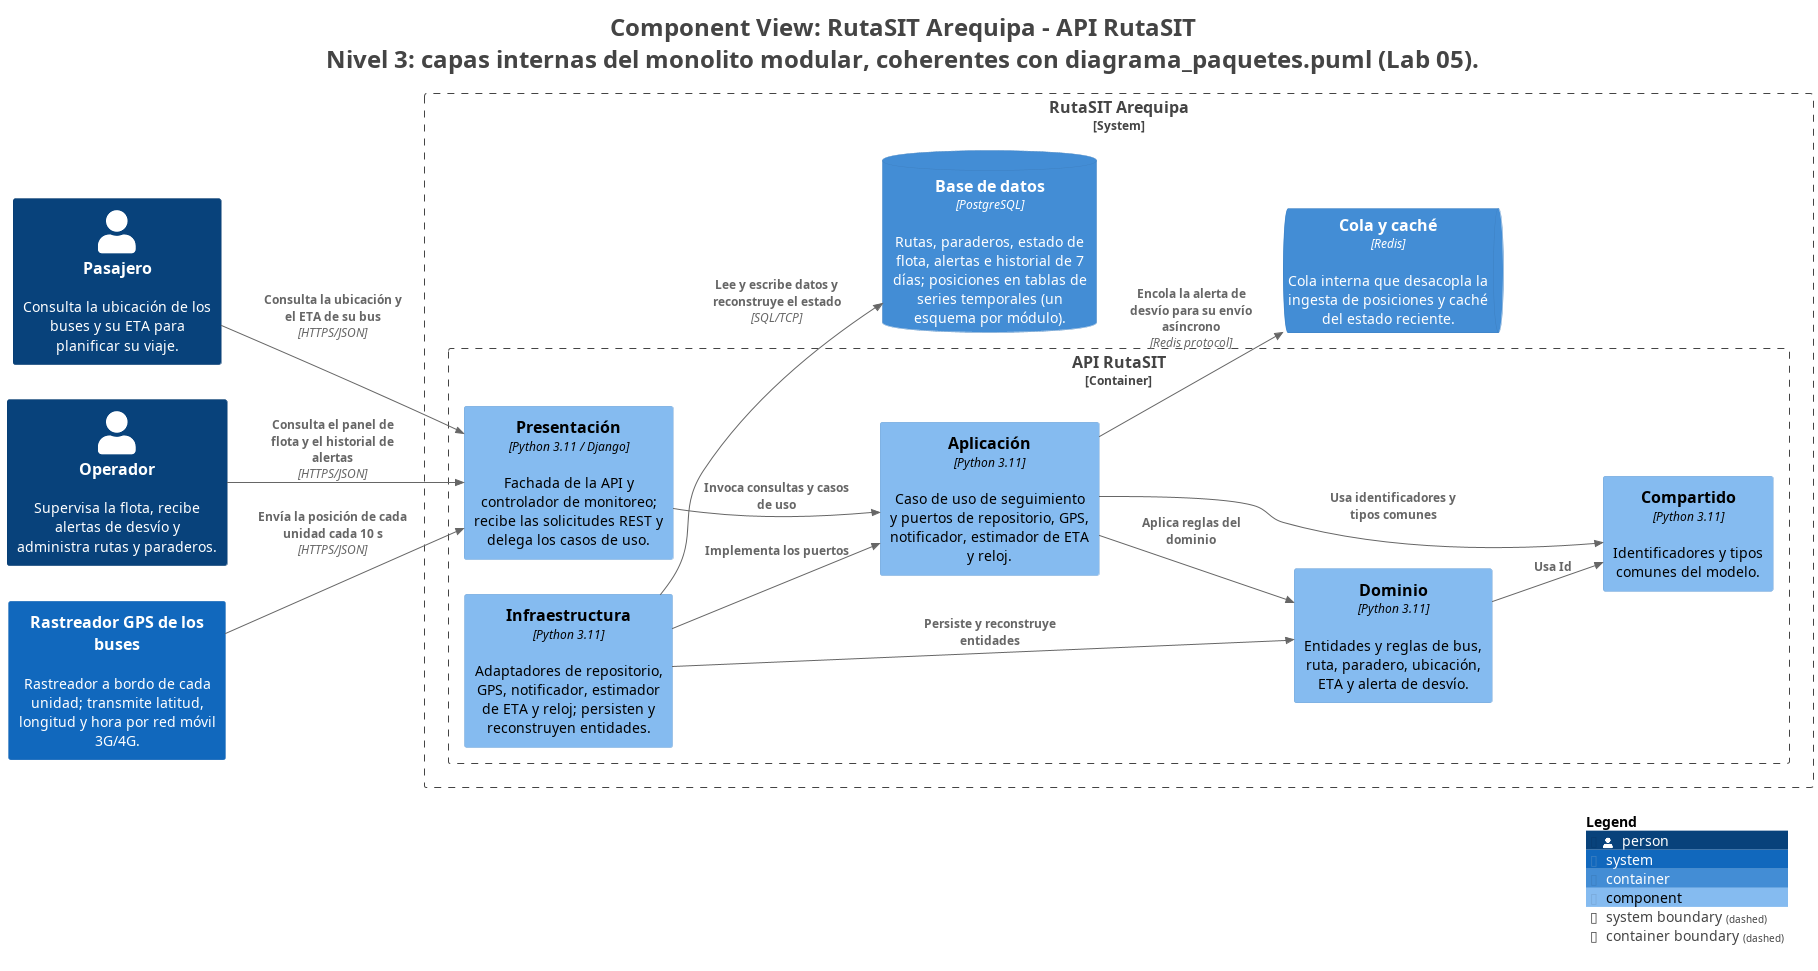
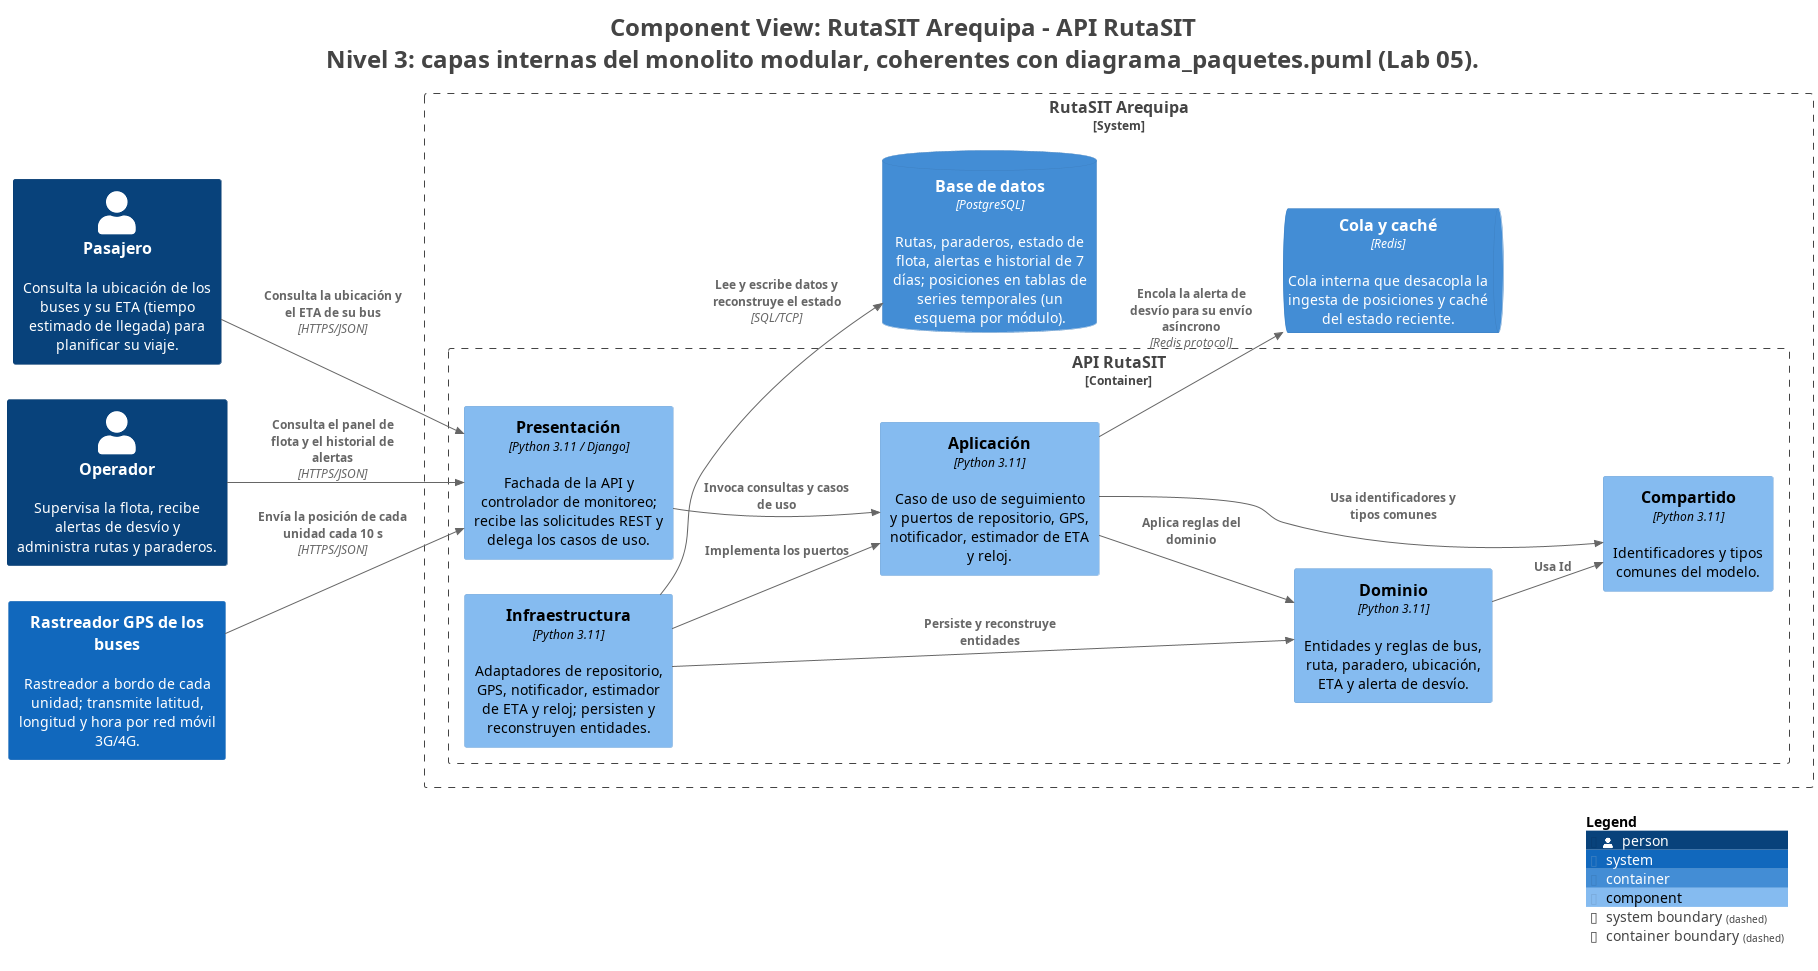
E7: revisión y bitácora

Changed region(s): [[0.0, 0.1854, 0.1232, 0.3708], [0.154, 0.2781, 0.2156, 0.3708]]

diff --git a/lab06/docs/architecture/c4/revision-c4.md b/lab06/docs/architecture/c4/revision-c4.md
@@ -1,0 +1,80 @@
+# Revisión C4 — RutaSIT Arequipa (Lab 06, E7)
+
+Proceso: el equipo aplicó la lista de revisión de la Tabla 3 (generales, elementos y relaciones)
+a las cinco vistas; después, un auditor IA (Prompt IA 2 de la guía) revisó los `.puml` exportados
+y las imágenes, y el equipo verificó cada hallazgo contra `workspace.dsl` y las fuentes de los
+Laboratorios 04 y 05 antes de aceptarlo o descartarlo. Evidencia citada del modelo
+(`workspace.dsl`), de los exports (`export/*.puml`) y de las imágenes (`img/`).
+
+## 1. Lista de revisión aplicada a las cinco vistas
+
+### Vista de contexto (nivel 1)
+
+| Grupo | Pregunta | ¿Cumple? | Evidencia |
+|---|---|---|---|
+| General | ¿Título, tipo de diagrama y alcance? | Sí | `title ... "System Context View: RutaSIT Arequipa"` y subtítulo «Nivel 1: RutaSIT, sus usuarios y los sistemas externos.» |
+| General | ¿Leyenda? | Sí | `SHOW_LEGEND(true)` (persona y sistema). Los externos llevan la etiqueta «Externo» en el modelo (ver hallazgo 1). |
+| Elementos | ¿Nombre, tipo y descripción de cada elemento? | Sí | `Person(Pasajero ...)`, `Person(Operador ...)`, `System(RutaSITArequipa ...)`, `System(RastreadorGPSdelosbuses ...)`, `System(MapasabiertosOSM ...)`. |
+| Elementos | ¿Acrónimos entendibles? | Sí (corregido en esta revisión) | «ETA (tiempo estimado de llegada)» y «SIT (Sistema Integrado de Transporte)»: expansiones tomadas de `docs/architecture/drivers.md`. |
+| Relaciones | ¿Etiqueta con intención, dirección y protocolo cuando aplica? | Sí | `Rel(..., "Transmite la posición de cada unidad cada 10 s", $techn="HTTPS/JSON")` y `Rel(..., "Solicita tiles y geometría del mapa", $techn="HTTPS")`; con las personas no aplica protocolo en el nivel 1. |
+
+### Vista de contenedores (nivel 2)
+
+| Grupo | Pregunta | ¿Cumple? | Evidencia |
+|---|---|---|---|
+| General | ¿Título, tipo de diagrama y alcance? | Sí | `"Container View: RutaSIT Arequipa"` y subtítulo «Nivel 2: contenedores del sistema y su tecnología.» |
+| General | ¿Leyenda? | Sí | `SHOW_LEGEND(true)` con límite discontinuo para el sistema. |
+| Elementos | ¿Cada contenedor con nombre, tipo y tecnología? | Sí | `Container(... "API RutaSIT" $techn="Python 3.11 / Django")`, `Container(... "Worker ETA/Alertas" $techn="Celery")`, `ContainerQueue(... "Cola y caché" $techn="Redis")`, `ContainerDb(... "Base de datos" $techn="PostgreSQL")`; ninguno se llama «Docker», «servidor» ni «nube». |
+| Relaciones | ¿Etiqueta y protocolo? | Sí | `Rel(... "Encola posiciones y alertas" $techn="Redis protocol")`, `Rel(... "Lee y escribe rutas, paraderos, estado y alertas" $techn="SQL/TCP")`, `Rel(... "Consulta la ubicación y el ETA de su bus" $techn="HTTPS/JSON")`. |
+
+### Vista de componentes (nivel 3, contenedor API RutaSIT)
+
+| Grupo | Pregunta | ¿Cumple? | Evidencia |
+|---|---|---|---|
+| General | ¿Título, tipo de diagrama y alcance? | Sí | `"Component View: RutaSIT Arequipa - API RutaSIT"` y subtítulo «Nivel 3: capas internas del monolito modular, coherentes con diagrama_paquetes.puml (Lab 05).» |
+| Elementos | ¿Componentes coherentes con el Lab 05, con tecnología? | Sí | Presentación, Aplicación, Dominio, Infraestructura y Compartido (`$techn="Python 3.11"`; Presentación: «Python 3.11 / Django»), las cinco capas de `lab05/diagrama_paquetes.puml`, sin ciclos. |
+| Relaciones | ¿Intención clara y tecnología solo donde aplica? | Sí | Internas en proceso sin tecnología (`"Invoca consultas y casos de uso"`); hacia contenedores/actores con tecnología (`"Redis protocol"`, `"SQL/TCP"`, `"HTTPS/JSON"`). |
+
+### Vista dinámica (HU-06, extremo a extremo)
+
+| Grupo | Pregunta | ¿Cumple? | Evidencia |
+|---|---|---|---|
+| General | ¿Título, tipo de diagrama y alcance? | Sí (corregido en esta revisión) | Subtítulo «Dinámico de extremo a extremo (HU-06): ingesta GPS, consulta del pasajero, alerta de desvío y panel del operador.» |
+| Elementos | ¿Participantes tipados y definidos una sola vez? | Sí | Pasos numerados 1–9; el PNG dibuja cada elemento una sola vez (la repetición de declaraciones en el `.puml` es estructura del exportador; ver hallazgo 4). |
+| Relaciones | ¿Orden, etiqueta y tecnología? | Sí | Pasos sobre relaciones existentes en el modelo; `"1: ..." $techn="HTTPS/JSON"`, `"4: ..." y "8: ..." $techn="SQL/TCP"`, `"6: ..." y "7: ..." $techn="Redis protocol"`; los pasos internos 3 y 5 no llevan tecnología. |
+| Relaciones | ¿El flujo cubre el escenario crítico? | Sí | Coherencia paso a paso con la secuencia del Lab 05 documentada en `comparacion.md` (§1); ver hallazgo 5 (falso positivo). |
+
+### Vista de despliegue (Producción)
+
+| Grupo | Pregunta | ¿Cumple? | Evidencia |
+|---|---|---|---|
+| General | ¿Título, tipo de diagrama y alcance? | Sí | `"Deployment View: RutaSIT Arequipa - Producción"` y subtítulo «Despliegue en producción del MVP: VPS único (R-03) y rastreadores GPS de los buses.» |
+| General | ¿Leyenda? | Sí | `SHOW_LEGEND(true)` con nodo, sistema y contenedor. |
+| Elementos | ¿Nodos anidados con tipo y descripción? | Sí | `Deployment_Node(... "Bus del SIT (300 unidades)" ...) > "Rastreador GPS"`; `Deployment_Node(..., "VPS único (R-03)", $type="Ubuntu 24.04 LTS, 2 vCPU, 4 GB RAM")`, coherente con R-03 (bajo costo). |
+| Elementos | ¿Instancias de **todos** los contenedores? | Sí | `containerInstance rutasit.app`, `rutasit.worker`, `rutasit.cache` y `rutasit.db` en el nodo de la VPS (véase también el PNG). |
+| Relaciones | ¿Etiqueta, dirección y protocolo? | Sí | `"Envía la posición de cada unidad cada 10 s" $techn="HTTPS/JSON"`, `"Guarda posiciones, estado del bus y alertas" $techn="SQL/TCP"`, `"Consume posiciones y alertas" $techn="Redis protocol"`. |
+
+## 2. Hallazgos del auditor IA y verificación del equipo
+
+| Vista | Hallazgo del auditor IA | Verificación del equipo |
+|---|---|---|
+| Contexto (y demás) | Los sistemas externos no se distinguen en el export (`$tags=""`; la leyenda no muestra «external»). | **Correcto (limitación aceptada y documentada)**: el modelo sí les asigna la etiqueta «Externo» y el export Mermaid la refleja en gris; el formato `plantuml/c4plantuml` de la CLI no traduce etiquetas ni estilos (se comprobó también con una etiqueta `External`). No se editan los exports a mano (fuente única). |
+| Contexto y Despliegue | Faltan expansiones de acrónimos (ETA, SIT, VPS). | **Correcto, corregido**: ETA y SIT se expanden con las definiciones de `drivers.md`; VPS se explica en la descripción del nodo. R-03 y HU-06 se mantienen como códigos de trazabilidad de los laboratorios anteriores. |
+| Dinámica | El título no cubre los pasos 1 y 9 (ingesta periódica y operador). | **Correcto, corregido**: la descripción declara ahora el alcance de extremo a extremo; no se quitaron pasos porque la alerta asíncrona y el panel del operador son parte deliberada del escenario. |
+| Dinámica | Declaraciones duplicadas en el `.puml` (bloque de líneas 37–42). | **Falso positivo**: es la estructura normal del exportador para elementos dentro y fuera del límite; el PNG dibuja cada elemento una sola vez y el archivo se regenera desde el modelo (no se edita a mano). |
+| Dinámica | Paso 4 sin un paso previo «Aplicación → Infraestructura». | **Falso positivo**: patrón puertos/adaptadores; la secuencia del Lab 05 llama `Service -> Repo: obtener_bus/ruta/paradero` y el repositorio **es** el adaptador de infraestructura: no falta ningún paso. |
+| Todas | ¿Falta un contenedor cliente (web o móvil)? | **Decisión de alcance verificada**: los Laboratorios 04 y 05 no definen una aplicación cliente propia; el navegador es software del usuario y el API «sirve el mapa del pasajero y el panel del operador» (descripción del contenedor). Queda registrado en la bitácora. |
+| Contenedores, Componentes y Despliegue | Tecnologías, protocolos, nodos e instancias. | **Correcto (cumple)**: p. ej. `ContainerQueue(..., $techn="Redis")` con `Redis protocol` en sus relaciones, `SQL/TCP` hacia la base de datos, y el nodo VPS con SO y tamaño (R-03). |
+
+Falsos positivos confirmados por el equipo: los dos marcados arriba (duplicación del `.puml` y
+paso 4 del flujo); ambos se descartaron con la evidencia citada.
+
+## 3. Correcciones aplicadas en esta revisión
+
+- Descripciones del modelo ampliadas: «ETA (tiempo estimado de llegada)», «SIT (Sistema Integrado
+  de Transporte)» y VPS explicado en el nodo de despliegue.
+- Vista dinámica: descripción ajustada al alcance real (extremo a extremo, 9 pasos).
+- `inventario.md`: la fila del despliegue ya no menciona «dispositivos de usuario»; se agregó la
+  nota de alcance (Structurizr descarta los nodos sin instancias y ningún contenedor de RutaSIT
+  se ejecuta en los dispositivos).
+- Re-exportación a C4-PlantUML y Mermaid y regeneración de los seis PNG tras las correcciones.

diff --git a/lab06/docs/architecture/c4/bitacora-ia.md b/lab06/docs/architecture/c4/bitacora-ia.md
@@ -1,0 +1,16 @@
+# Bitácora de uso de IA: Lab 06 (modelo C4)
+
+**Periodo de trabajo consignado:** 17/10/2026.
+**Interacciones registradas:** 8, todas del 17/10/2026.
+**Nota de integridad:** solo se registran interacciones reales de esta sesión. Cada propuesta de la IA fue verificada contra las fuentes (Laboratorios 04 y 05); el modelo se validó con `structurizr validate` y las exportaciones se regeneraron tras cada corrección. La revisión cruzada por issue de GitHub y la aprobación final del grupo quedan pendientes.
+
+| # | Fecha | Herramienta | Prompt enviado (resumen) | Propuesta recibida | Verificación | Decisión tomada |
+|---|---|---|---|---|---|---|
+| 1 | 17/10/2026 | OpenCode (asistente IA) | «Modela el inventario C4 y el borrador de `workspace.dsl` desde el Lab 04/05, sin inventar elementos». | Contenedores con Nginx (proxy HTTPS) y Grafana (monitoreo), porque aparecen en `despliegue.py` y QA-02. | El ADR-001 describe monolito modular + cola Redis + PostgreSQL; ni el proxy ni el monitoreo son contenedores del sistema y QA-02 no exige modelarlos en C4. | Excluirlos de las vistas del MVP (decisión documentada); contenedores finales: API RutaSIT, Worker ETA/Alertas, Cola y caché y Base de datos. |
+| 2 | 17/10/2026 | OpenCode (asistente IA) | «¿Qué componentes modelamos en el nivel 3: los módulos del ADR-001 o los paquetes del Lab 05?». | Módulos funcionales Ingesta, Flota, ETA, Alertas y Rutas (ADR-001). | El criterio de E3 pide 4 o más componentes coherentes con `lab05/diagrama_paquetes.puml` (cinco capas, sin ciclos). | Componentes = Presentación, Aplicación, Dominio, Infraestructura y Compartido; los módulos se mencionan en la descripción del contenedor. |
+| 3 | 17/10/2026 | OpenCode (asistente IA) | «R-03 no fija SO, CPU ni RAM del VPS; ¿qué declaramos en el nodo de despliegue?». | Dejar solo «VPS de bajo costo», sin detalles. | `drivers.md` (R-03) solo exige bajo costo, pero la lista de revisión pide tecnología del nodo. | El equipo fijó Ubuntu 24.04 LTS, 2 vCPU y 4 GB RAM como supuesto documentado. |
+| 4 | 17/10/2026 | OpenCode (asistente IA) + Structurizr CLI (Docker) | «Construye la vista dinámica del flujo HU-06 sobre relaciones existentes, integrando ingesta, desvío y operador». | Vista con alcance del sistema y 9 pasos entre componentes y contenedores. | `structurizr validate` falló: «Components can't be added to a dynamic view when the scope is a software system»; además, con `!identifiers hierarchical` las relaciones exigen rutas completas. | Alcance = contenedor API (patrón de la guía) y relaciones persona/GPS → Presentación; vista validada y exportada. |
+| 5 | 17/10/2026 | OpenCode (asistente IA) + Structurizr CLI (Docker) | «Agrega el entorno "Producción" con nodos anidados e instancias de todos los contenedores». | Nodos de dispositivo para el pasajero y el operador (vacíos), más el VPS con las instancias y el nodo de buses con el rastreador. | Prueba real de export: Structurizr descarta del diagrama los nodos sin instancias; los dispositivos no aparecían en el PNG. | Retirarlos del modelo (ningún contenedor de RutaSIT se ejecuta allí); corregir `inventario.md` y registrarlo. |
+| 6 | 17/10/2026 | OpenCode (asistente IA) + PlantUML | «Genera los PNG de las cinco vistas exportadas y del contexto manual». | Un solo comando con salida `-o ../img` para todos los `.puml`. | El PNG del contexto manual quedó en `docs/architecture/img/`: la ruta `../img` es relativa a cada archivo de entrada. | Corregir la salida (`-o img`), mover el archivo y regenerar; error propio de la IA, registrado aquí. |
+| 7 | 17/10/2026 | OpenCode (subagente revisor, Prompt IA 2 de la guía: «Auditor C4») | «Evalúa las vistas exportadas con la lista de c4model.com (general, elementos, relaciones); responde en tabla con evidencia y corrección; no inventes problemas». | 11 observaciones y 3 casos dudosos: externos sin gris, acrónimos, alcance del título, duplicación del `.puml`, paso 4 del flujo, falta de cliente, etc. | El equipo contrastó cada hallazgo con `workspace.dsl` y las fuentes: 2 correctos corregidos (acrónimos ETA/SIT/VPS; alcance del título de la dinámica), 2 falsos positivos confirmados por el equipo (duplicación del `.puml`; paso 4 resuelto por el patrón puertos/adaptadores), 1 limitación aceptada (gris de externos en `plantuml/c4plantuml`), 1 decisión de alcance (sin aplicación cliente) y 1 duda resuelta (la duplicación la genera el exportador). | Corregir el modelo, re-exportar y registrar la matriz completa en `revision-c4.md`. |
+| 8 | 17/10/2026 | OpenCode (asistente IA, Prompt IA 3 de la guía) | «Explica el contexto a un público no técnico, en máximo 120 palabras, sin jerga». | Borrador de 115 palabras que repetía «ETA», «buses activos» e «historial de los últimos siete días». | Se contrastó cada afirmación con el modelo (ubicación y tiempo de llegada, panel del operador, última posición conocida, planos abiertos) y se contó el texto con `wc -w`. | Simplificar la jerga («cuánto falta para que llegue», «última semana») y aprobar la versión final de 104 palabras en `explicacion.md`. |

diff --git a/lab06/docs/architecture/c4/inventario.md b/lab06/docs/architecture/c4/inventario.md
@@ -43,7 +43,7 @@ cinco vistas.
 | Vista | Escenario | Origen |
 |---|---|---|
 | Dinámica | Consulta de seguimiento del pasajero con detección de desvío y alerta (HU-06). | `lab05/diagrama_secuencia.puml` y `lab05/diagrama_actividades.puml` |
-| Despliegue «Producción» | VPS único (R-03), buses con rastreador (R-05) y dispositivos de usuario. | `docs/architecture/drivers.md` (R-03, R-05) y `diagramas/despliegue.py` |
+| Despliegue «Producción» | VPS único (R-03) con los cuatro contenedores y buses con rastreador GPS (R-05). | `docs/architecture/drivers.md` (R-03, R-05) y `diagramas/despliegue.py` |
 
 ## Nivel 4 (código)
 
@@ -59,3 +59,7 @@ implementa los componentes del dominio y los puertos del contenedor API:
 - Nginx (proxy) y Grafana (monitoreo) figuran en `diagramas/despliegue.py` del Lab 04,
   pero el equipo acordó dejarlos fuera de las vistas C4 del MVP; la decisión queda
   registrada en `bitacora-ia.md`.
+- Los nodos de dispositivo de usuario no se incluyen: ningún contenedor de RutaSIT se
+  ejecuta en ellos y Structurizr descarta del export los nodos sin instancias; el acceso
+  por navegador queda descrito dentro del contenedor API («sirve el mapa del pasajero y
+  el panel del operador»).

diff --git a/lab06/docs/architecture/c4/explicacion.md b/lab06/docs/architecture/c4/explicacion.md
@@ -1,0 +1,1 @@
+RutaSIT Arequipa permite que cada pasajero vea desde su celular dónde está el bus que espera y cuánto falta para que llegue a su paradero. Los operadores ven toda la flota en un panel: qué buses están en servicio, cuáles dejaron de enviar su señal y cuándo una unidad se desvía de su ruta, con el historial de la última semana. Para lograrlo, RutaSIT recibe la posición de cada bus desde un dispositivo instalado a bordo, a través de la red móvil, y dibuja el mapa con planos abiertos. Si un bus atraviesa una zona sin señal, el sistema muestra su última posición conocida.
